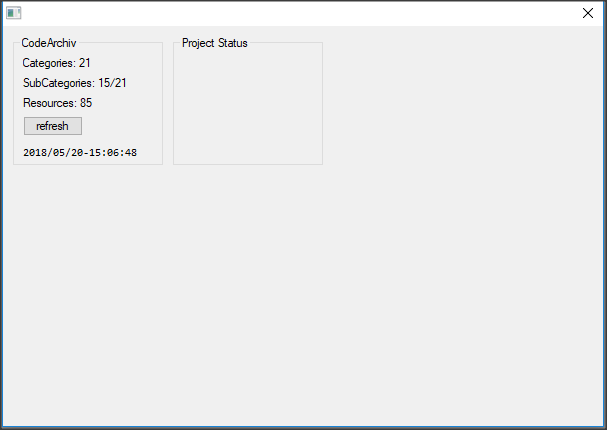
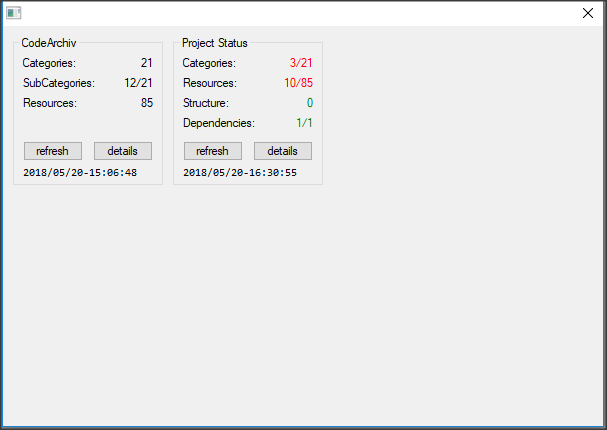
Update GUI Prototype and Notes
Further tests with the GUI have brought to attention a new problem when dealing with
representing errors statistics in the GUI (see MODULARIZATION NOTES).

diff --git a/_assets/MODULARIZATION_NOTES.md b/_assets/MODULARIZATION_NOTES.md
@@ -240,10 +240,10 @@ The log gadget will have to communicate with the Log Module, most probably. A fe
 
 The GUI should have a panel displaying info on the Archiv structure:
 
-- Total Number of Categories
+- Total Number of Categories (n)
     + Number of Root Categories
-    + Number of Sub-Categories
-- Total Number of Resources
+    + Number of Sub-Categories (s/n)
+- Total Number of Resources (n)
     + number of `.pb` resources
     + number of `.pbi` resources
     + number of `CodeInfo.txt` resources
@@ -251,7 +251,7 @@ The GUI should have a panel displaying info on the Archiv structure:
 
 The above information should be gathered automatically at startup, but at any time the user can use a `refresh` button to update it (eg, if he has changed the files/folders in the meantime) — refreshment of this dialog might imply resetting other dialogs too, because some changes in the Archiv might require running again some functions.
 
-The __Last Updated__ (timestamp) seems useful because different panels might be refreshed at different points in time, and if each panel has a timestamp it can be useful to keep track of their differences, and to work out why a panel is greyed out (ie, needs refreshing).
+The __Last Updated__ (timestamp: `YY/MM/DD-hh-mm-ss`) seems useful because different panels might be refreshed at different points in time, and if each panel has a timestamp it can be useful to keep track of their differences, and to work out why a panel is greyed out (ie, needs refreshing).
 
 #### Project Errors Panel
 
@@ -271,13 +271,28 @@ So, the possible entries in such a panel could be:
 
 Although incomplete, the above list makes it clear that a similar panel would be too cluttered to be practical. I should summarize the different problems in a few useful categories:
 
--  __Proj Structure__
--  __Resources__
--  __Dependencies__ (pandoc, ecc)
+-  __Proj Structure__ (n) — where `n` is the number of structural errors (if any)
+-  __Resources__ (e/n) — where `e` is the number of faulty resource over `n` (total num of resources)
+-  __Dependencies__ (n) — where `n` is the number of problems encountered with dependencies (pandoc, etc).
 
 ... and just assign to them a color based on status (green = ok, red = error, grey = unknown) and add next to them a number in braces showing the total count — eg: __Resources (80)__ in green = 80 resources, all passed the test; while __Resources (5/80)__ in red = 80 resources, 5 of which didn't pass the test; and __Resources (80)__ in grey = 80 resources, unknown status; while __Resources (?)__ would indicate unknown number of resources and status.
 
 And so on.
+
+Looking at the proof of concept screenshot:
+
+![Proto GUI imgs][dummyGUI img]
+
+... the GUI's "__Project Status__" panel is telling us that:
+
+- __Categories__: 3 out of 21 categories have problems which must be addressed. It could be that each category has more than one error, and that the error is tied specifically to the category structure (READMEs, etc) or even to a resource therein — it ultimately depends on how we wish statistics to be shown.
+- __Resources__: 10 out of 85 resources have problems that need to be addressed. It could be that a resource has more than one problem (invalid header, settings saved in file, and include file has no main block). In this case we can pinpoint the number of faulty resources OR the total number of resources related problems (it's a matter of choice).
+- __Structure__: 0 structural problems found.
+- __Dependencies__: 1/1 dependencies are OK.
+
+This first prototype has brought to light that simplicity in the GUI could also introduce ambiguity of interpretation. We must decide how errors are counted — WHAT COUNTS AS A CATEGORY ERROR? ANY ERROR, INCLUDING RESOURCES?.
+
+Of course, the `details` button will pop-up a detailed resume of all these problems, leaving no ambiguity of interpretations; nevertheless, __this has brought to attention the issue of how to classify and count problems in GUI panels__ — we can't create an entry for each separate problem, but grouping multiple problems under a same entry creates ambiguity.
 
 The panel should then have an `Info` button which can be clicked to produce a pop-up window with a full status report — structure, resources and dependencies, listing all the known problems and statistics. This would be a much cleaner approach (instead of a cluttered panel) and still allow access to full status details from within the GUI.
 
